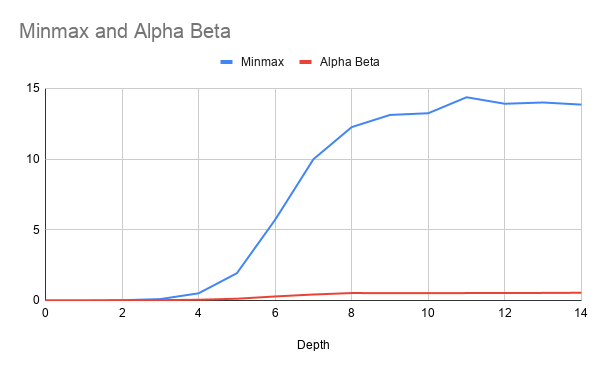
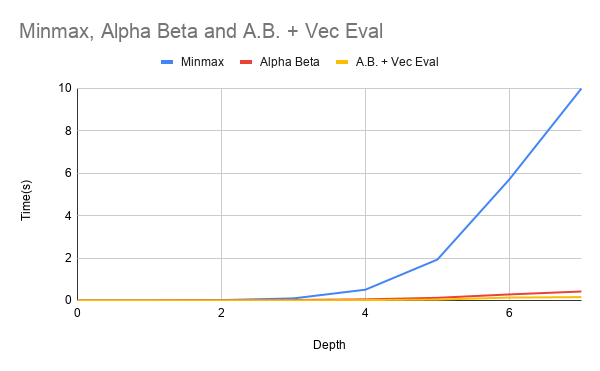
pics

diff --git a/tictactoe.py b/tictactoe.py
@@ -1,5 +1,7 @@
 #!/usr/bin/env python3
 
+import time
+
 import numpy as np
 
 WIN_SCORE = 1000
@@ -25,7 +27,7 @@ class TicTacToeBoard(object):
             else:
                 prefix, postfix = "", ""
 
-            row = prefix + "|".join(row) + postfix + "\n"
+            row = " " + prefix + "|".join(row) + postfix + "\n"
             output += row
         return output
 
@@ -171,6 +173,17 @@ def play_game():
             else:
                 print("Tie!")
                 return 0
+
+def time_game():
+    """Generate a list of execution times for different search depths"""
+    for depth in range(15):
+        b = TicTacToeBoard()
+        b.board[0,0] = "o"
+
+        t0 = time.time()
+        minmax(b, eval_tictactoe, depth)
+        t1 = time.time()
+        print((depth, t1 - t0))
 
 if __name__ == "__main__":
     play_game()

diff --git a/readme.md b/readme.md
@@ -8,6 +8,7 @@ A repo of simple AIs to play various games, and a testing ground for various tes
 
 # Tic-tac-toe
 
+
 Proving problem before tackling chess, with very similar requirements:
 
 1. Board state representation
@@ -17,6 +18,8 @@ Proving problem before tackling chess, with very similar requirements:
 Given a board object that can enumerate possible next moves, the search algorithm goes down the tree looking alternatively at what our best move is, and what an opponent's best move is. If we reach a recursion depth limit, we use the board evaluation function as a heuristic to just that end point.
 
 ### Board Design
+
+![board](https://github.com/eschluntz/games/blob/master/display.png?raw=true)
 
 The underlying data representation was pretty straight forward - a 2D numpy grid of chars.
 
@@ -33,7 +36,7 @@ Ideally I'll be able to use the same search function for both tic tac toe, chess
 2. Alpha-Beta pruning: Because of how min-max works, we can establish upper and lower bounds of our other options, and quit exploring a branch of the tree early if we know that it won't be chosen. It's pretty incredible how much of a speedup alpha-beta gave me!
 3. TODO: move ordering: exploring moves from best to worst makes alpha beta pruning WAY more effective. For chess I should explore using extra calls to the evaluation function to sort the moves, and then go down them. (or maybe even some sort of shallower tree search first, to order the options.)
 
-![times](.time_graph.png)
+![times](https://github.com/eschluntz/games/blob/master/time_graph.png?raw=true)
 
 
 
